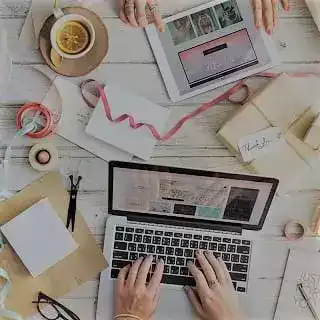
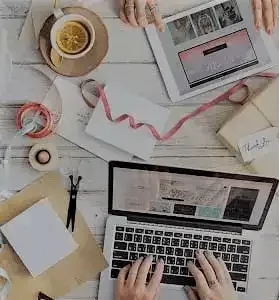
modification dimension des images

diff --git a/contact.html b/contact.html
@@ -15,6 +15,7 @@
     <link rel="stylesheet" type="text/css" href="./css/bootstrap.css">
     <link rel="stylesheet" type="text/css" href="style.css">
     <link rel="stylesheet" type="text/css" href="./css/font-awesome.css">
+    <link rel="stylesheet" type="text/css" href="./css/et-line.css">
 
     <script src="./js/blocs.js"></script>
     <script src="./js/formHandler.js"></script>

diff --git a/index.html b/index.html
@@ -18,6 +18,7 @@
     <link rel="stylesheet" type="text/css" href="./css/bootstrap.css">
     <link rel="stylesheet" type="text/css" href="style.css">
     <link rel="stylesheet" type="text/css" href="./css/font-awesome.css">
+    <link rel="stylesheet" type="text/css" href="./css/et-line.css">
 
     <script src="./js/blocs.js" ></script>
 
